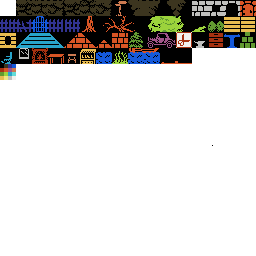
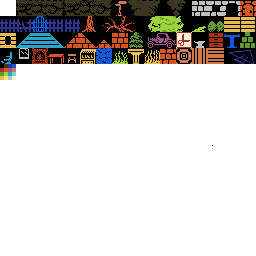
More level design and additional tiles, removed some commented out code

Changed region(s): [[0.5, 0.1875, 1.0, 0.25], [0.375, 0.1875, 0.4375, 0.25]]

diff --git a/physics.c b/physics.c
@@ -52,7 +52,6 @@ void gravity(float *x, float *y)
                     case 9:
                     case 10:
                     case 56:
-                    case 57:
                         if(*y < i) // coming from top
                         {
                             *y = (i - 1);
@@ -102,7 +101,6 @@ void applyVelocity(float *x, float *y, float *dx, float *dy)
                     case 9:
                     case 10:
                     case 56:
-                    case 57:
                         // find amount needed to move out of tile
                         amt[0] = abs(i - (ry+1)); // top
                         amt[1] = abs((j+1) - rx); // right
@@ -142,49 +140,6 @@ void applyVelocity(float *x, float *y, float *dx, float *dy)
                             *y = (i + 1);
                             *dy = 0;
                         }
-
-                        /*
-                        if (1)
-                        {
-                            if(*x < j * TILE_WIDTH) // coming from the left
-                            {
-                                *x = (j - 1) * TILE_WIDTH;
-                            }
-                            else if(*x > j * TILE_WIDTH) // coming from the right
-                            {
-                                *x = (j + 1) * TILE_WIDTH;
-                            }
-                            else if(*y < i * TILE_HEIGHT) // coming from top
-                            {
-                                *y = (i - 1) * TILE_HEIGHT;
-                                pstate.falling = 0;
-                            }
-                            else if(*y > i * TILE_HEIGHT) // coming from below
-                            {
-                                *y = (i + 1) * TILE_HEIGHT;
-                            }
-                        }
-                        else
-                        {
-                            if(*y < i * TILE_HEIGHT) // coming from top
-                            {
-                                *y = (i - 1) * TILE_HEIGHT;
-                                pstate.falling = 0;
-                            }
-                            else if(*y > i * TILE_HEIGHT) // coming from below
-                            {
-                                *y = (i + 1) * TILE_HEIGHT;
-                            }
-                            else if(*x < j * TILE_WIDTH) // coming from the left
-                            {
-                                *x = (j - 1) * TILE_WIDTH;
-                            }
-                            else if(*x > j * TILE_WIDTH) // coming from the right
-                            {
-                                *x = (j + 1) * TILE_WIDTH;
-                            }
-
-                        }*/
                         break;
 
                     default:

diff --git a/main.c b/main.c
@@ -254,7 +254,7 @@ int checkEvents(SDL_Event eve)
                             loadLevel(FILE_LVL7, lvl);
                             loadEntities(FILE_ENT7, entities);
                             player.x = 0;
-                            player.y = 13;
+                            player.y = 11;
                             CurrLevel = LEVEL7;
                             break;
                         case EXIT12:    // To windmill from cliff
@@ -275,7 +275,7 @@ int checkEvents(SDL_Event eve)
                             loadLevel(FILE_LVL7, lvl);
                             loadEntities(FILE_ENT7, entities);
                             player.x = 19;
-                            player.y = 13;
+                            player.y = 11;
                             CurrLevel = LEVEL7;
                             break;
                         case EXIT15:    // To dump from pond

diff --git a/video.c b/video.c
@@ -406,13 +406,13 @@ void drawLvlName(int n)
             titleBar("Barbershop", 220);
             break;
         case 6:
-            titleBar("Cliff", 260);
+            titleBar("Cliff", 90);
             break;
         case 7:
-            titleBar("Pond", 260);
+            titleBar("Pond", 100);
             break;
         case 8:
-            titleBar("Dump", 260);
+            titleBar("Dump", 120);
             break;
         default:
             titleBar("Somewhere out there", 410);
